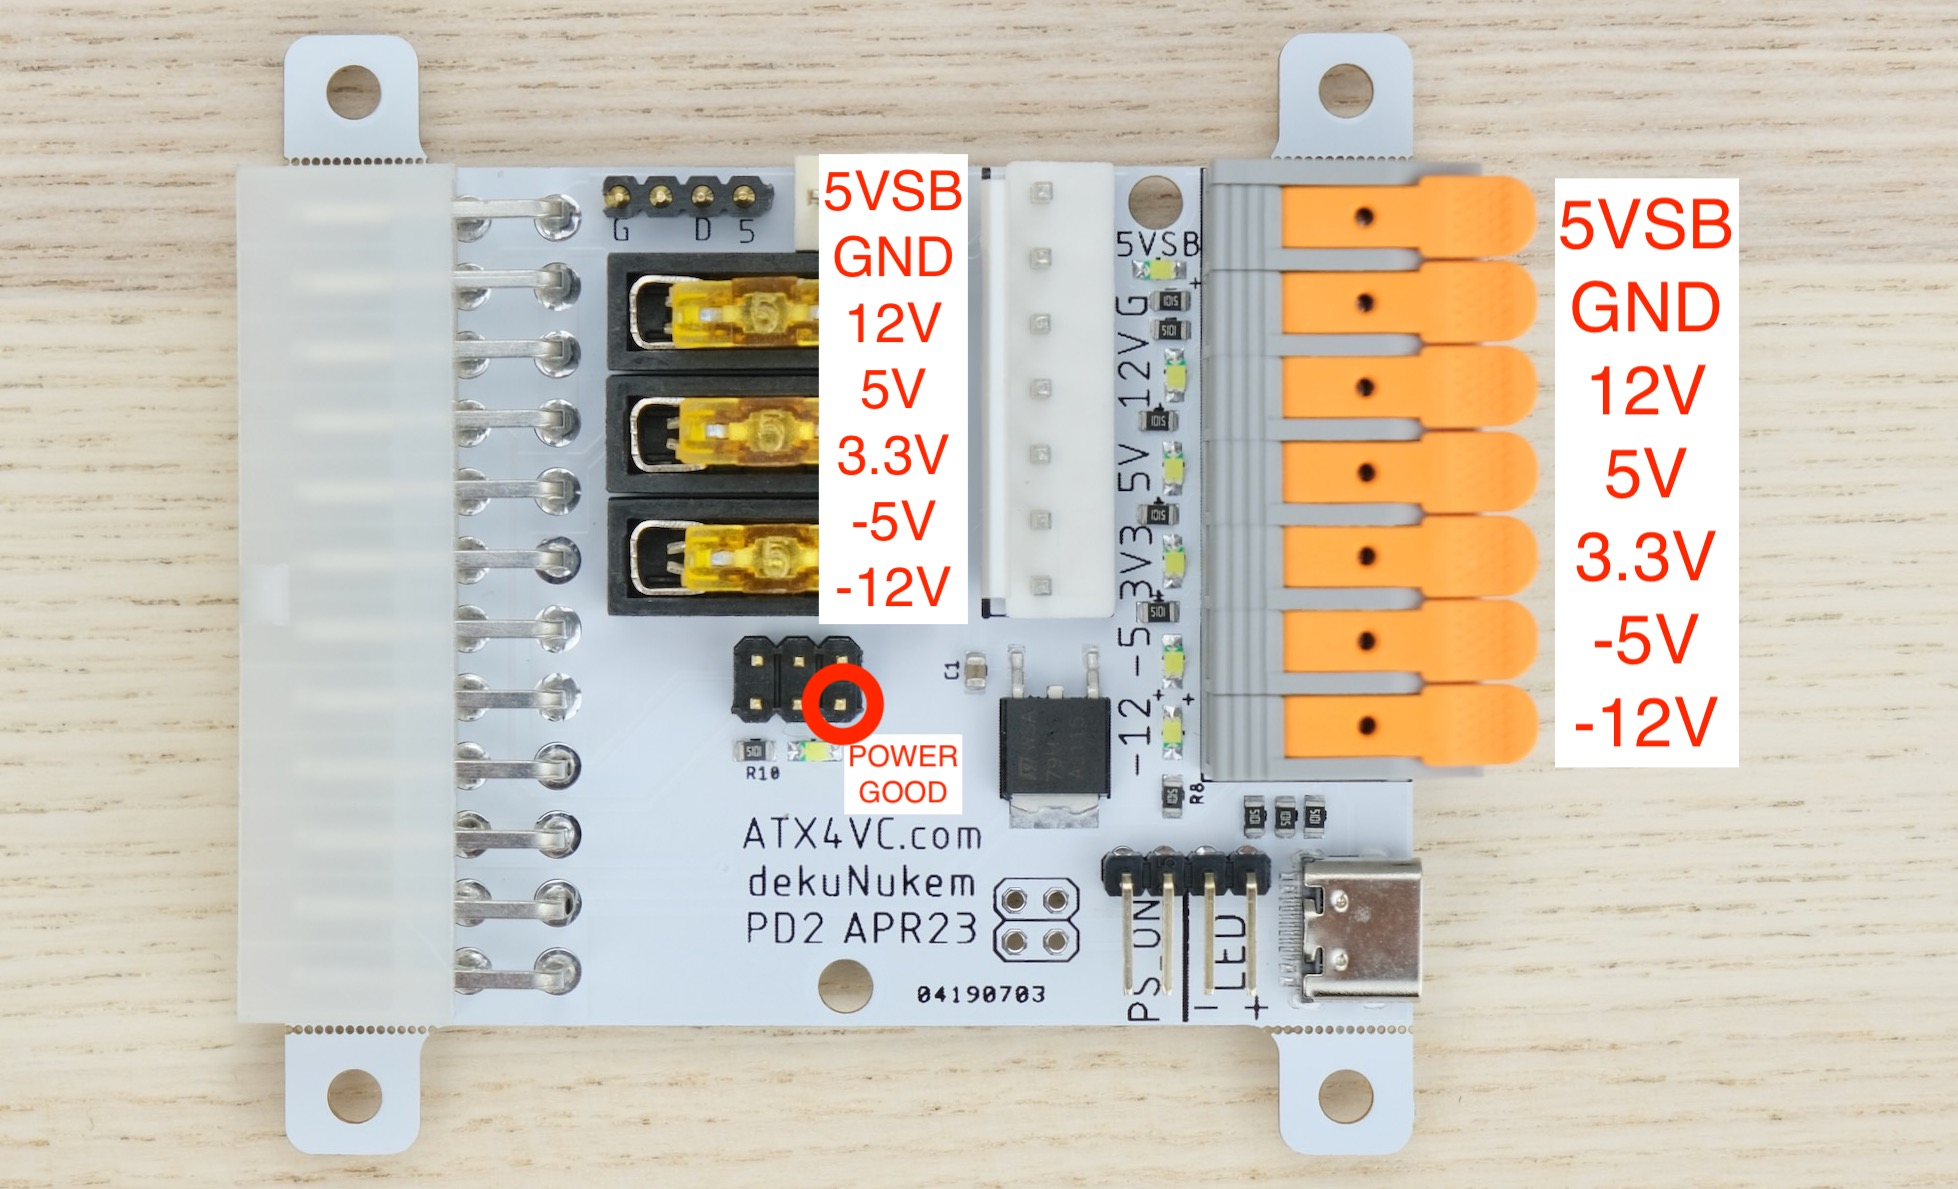
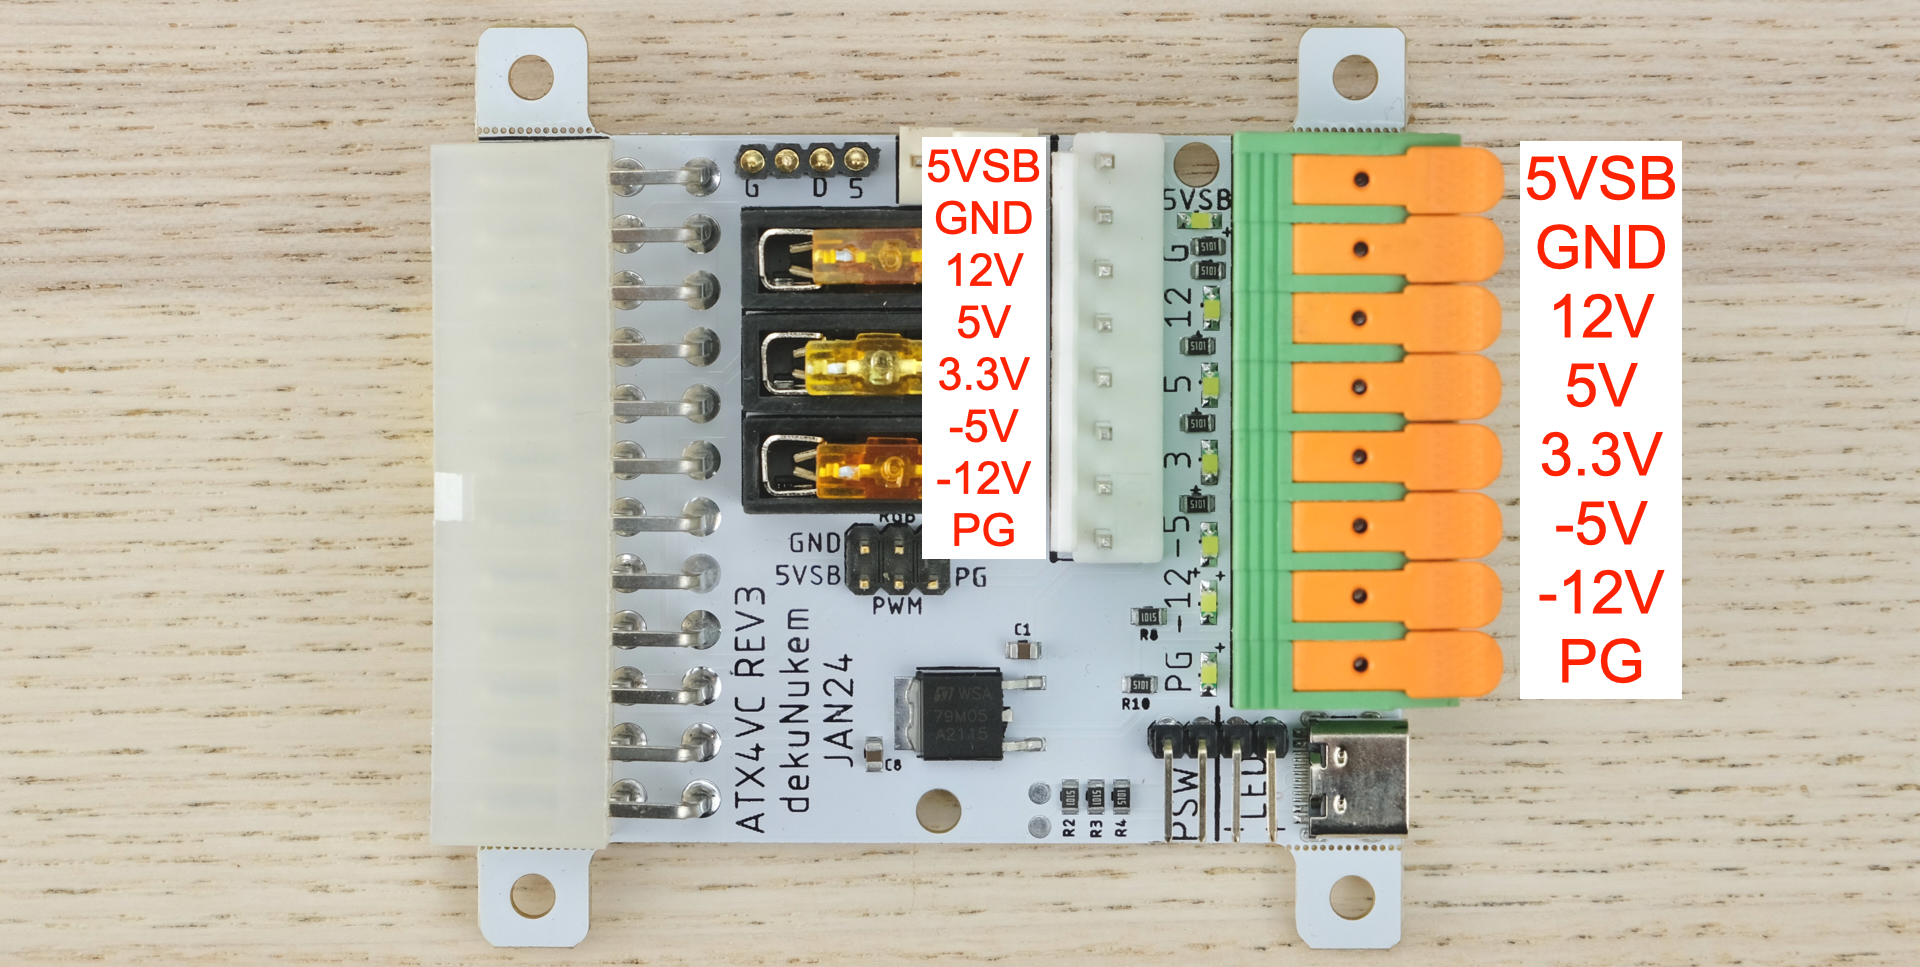
updated photos

diff --git a/README.md b/README.md
@@ -124,7 +124,7 @@ If you **do** want to use a momentary button with soft power, use the optional [
 
 * Pinout is the same on terminal block and auxiliary connector.
 
-* Use **7P VH 3.96** female connector for aux power out.
+* Use **8P VH 3.96** female connector for aux power out.
 
 * 5VSB = 5V Standby. Available even when PSU is off.
 
